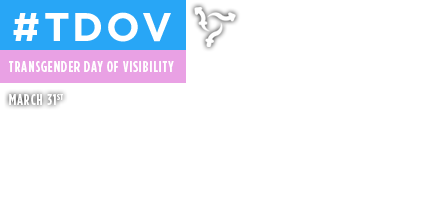
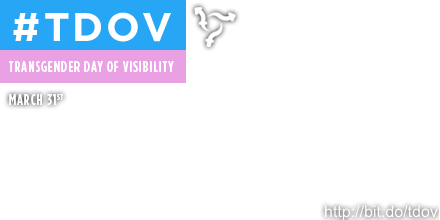
social

Changed region(s): [[0.7091, 0.9273, 1.0, 1.0]]

diff --git a/examples/caman_temp.html b/examples/caman_temp.html
@@ -153,6 +153,15 @@
 
 </head>
 <body>
+	<div id="fb-root"></div>
+<script>(function(d, s, id) {
+  var js, fjs = d.getElementsByTagName(s)[0];
+  if (d.getElementById(id)) return;
+  js = d.createElement(s); js.id = id;
+  js.src = "//connect.facebook.net/en_US/sdk.js#xfbml=1&appId=820237101390182&version=v2.3";
+  fjs.parentNode.insertBefore(js, fjs);
+}(document, 'script', 'facebook-jssdk'));</script>
+
 	<div id="output" style="display: none; padding: 10px 20px 40px;">	
 	
 		<div id="result" style="clear: both; text-align: center; margin: 0 auto;">
@@ -233,6 +242,24 @@
 	<div style="clear: both; margin: 0 auto; width: 504px;">
 		<br />
 		<img src="banner.png" align="middle">
+		
+		<div style="clear: both; margin: 0 auto; width: 240px;">
+			<br />
+			<div class="fb-share-button" data-href="http://bit.do/tdov" data-layout="button_count"></div>
+			
+			<a href="https://twitter.com/share" class="twitter-share-button" data-url="http://bit.do/tdov" data-text="Show your support for Trans Day of Visibility!" data-size="large" data-hashtags="TDOV">Tweet</a>
+			<script>
+				!function(d,s,id){
+					var js,fjs=d.getElementsByTagName(s)[0],p=/^http:/.test(d.location)?'http':'https';
+					if(!d.getElementById(id)){
+						js=d.createElement(s);
+						js.id=id;js.src=p+'://platform.twitter.com/widgets.js';
+						fjs.parentNode.insertBefore(js,fjs);
+					}
+				}(document, 'script', 'twitter-wjs');
+			</script>
+		</div>
+		
 		<p>Trans* or Ally, show your support.</p>
 		<p> Just choose a picture, a template, select a message and save it to share on Facebook and Twitter, and don't forget to use #TDOV.</p>
 		<p>This site should work in most modern browsers, if you're having trouble saving try <b>Right-Clicking</b> on the image and choosing the <b>Save image as</b> options.</p>
